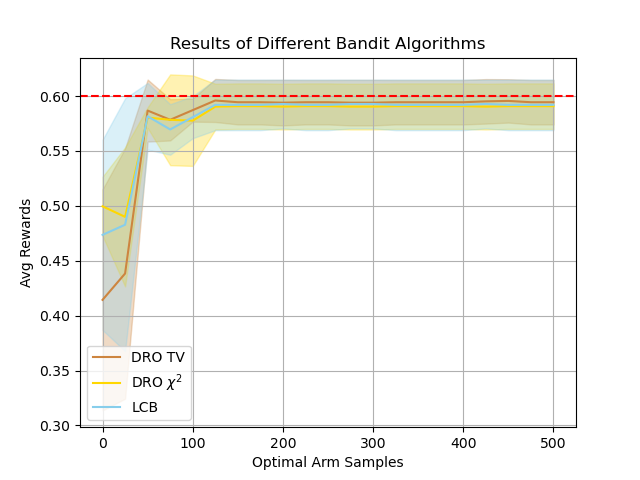
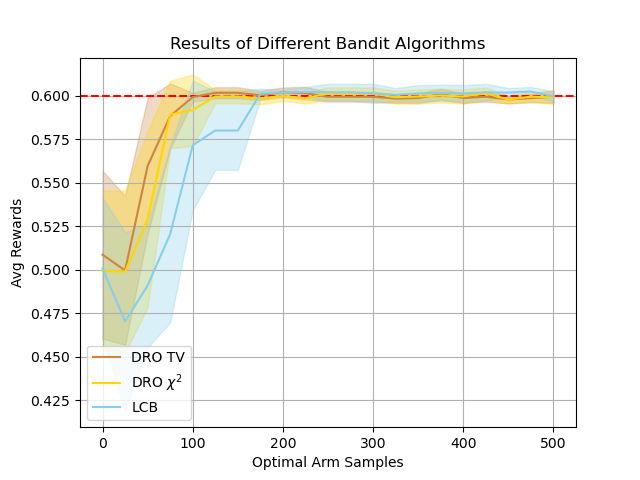
change the initial of u,v

diff --git a/offline_mab/offline_bandit.py b/offline_mab/offline_bandit.py
@@ -115,7 +115,7 @@ class DROmab:
         return np.exp(y - 1)
     
     def max_uv(self, action, batch, delta, n_action):
-        u, v = 0.5, 0.5
+        u, v = 0.5, 0.0
         u_grad, v_grad = 1, 1
         i = 0
         while (u_grad > self.epsilon or v_grad > self.epsilon) and i < self.n_iterations:
